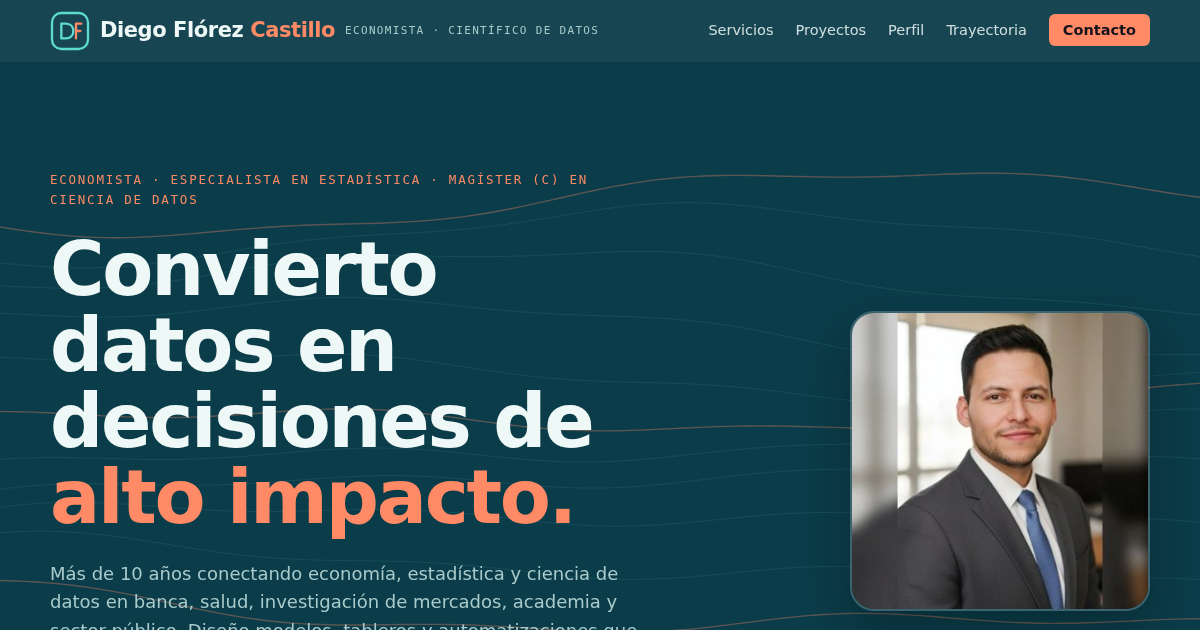
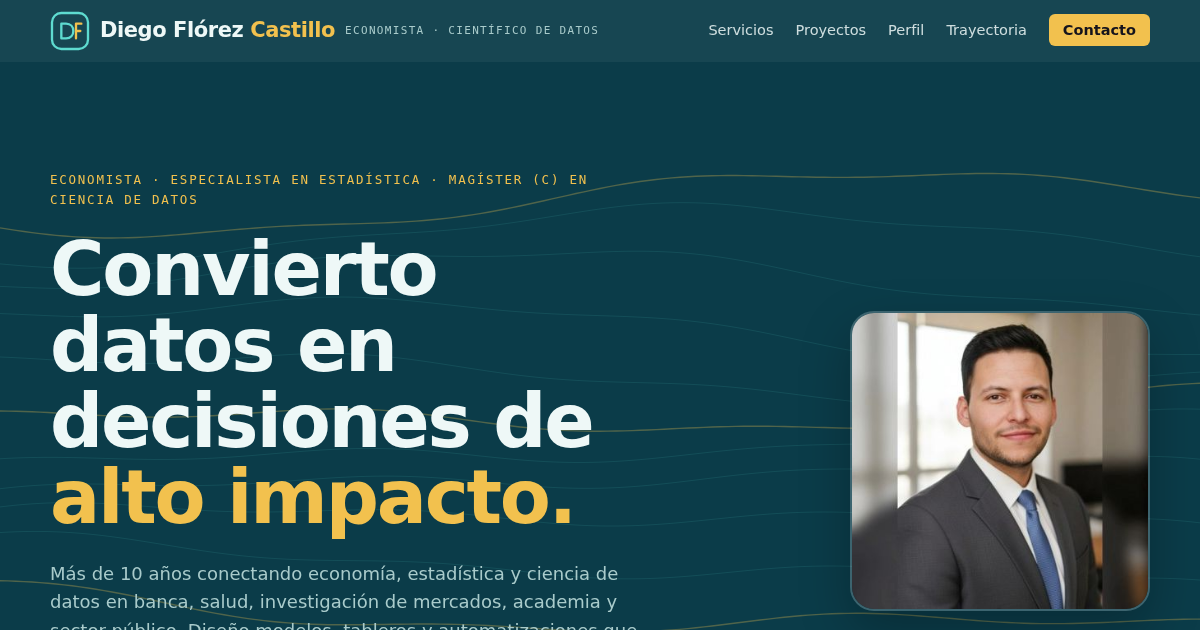
Add files via upload

diff --git a/index.html b/index.html
@@ -8,20 +8,21 @@
 <meta property="og:type" content="profile">
 <meta property="og:title" content="Diego Flórez Castillo · Economista y científico de datos">
 <meta property="og:description" content="Diego Flórez Castillo: economista, especialista en Estadística Aplicada y científico de datos. Analítica predictiva, econometría, inteligencia de negocios y automatización.">
-<meta property="og:image" content="og-diego.png">
+<meta property="og:image" content="https://diegoflorez-datos.github.io/og-diego.png">
+<meta property="og:url" content="https://diegoflorez-datos.github.io/">
 <meta name="twitter:card" content="summary_large_image">
 <meta name="theme-color" content="#0B3C49">
 <link rel="icon" type="image/svg+xml" href="favicon.svg">
 <link rel="preconnect" href="https://fonts.googleapis.com">
 <link rel="preconnect" href="https://fonts.gstatic.com" crossorigin>
 <link rel="stylesheet" href="https://fonts.googleapis.com/css2?family=Bricolage+Grotesque:opsz,wght@12..96,500;12..96,700;12..96,800&family=IBM+Plex+Sans:wght@400;500;600&family=IBM+Plex+Mono:wght@400;500&display=swap">
-<link rel="stylesheet" href="styles.css?v=20260929">
+<link rel="stylesheet" href="styles.css?v=20260929b">
 </head>
 <body>
 <nav class="nav" aria-label="Principal">
   <div class="wrap">
     <a class="brand" href="#inicio">
-      <svg width="40" height="40" viewBox="0 0 120 120" aria-hidden="true"><rect x="6" y="6" width="108" height="108" rx="28" fill="none" stroke="#5EDBD0" stroke-width="7"/><path d="M34 38 V82 H48 C62 82 70 72 70 60 C70 48 62 38 48 38 Z" fill="none" stroke="#5EDBD0" stroke-width="7" stroke-linejoin="round"/><path d="M78 82 V38 H94 M78 60 H91" fill="none" stroke="#FF8A65" stroke-width="7" stroke-linecap="round" stroke-linejoin="round"/></svg>
+      <svg width="40" height="40" viewBox="0 0 120 120" aria-hidden="true"><rect x="6" y="6" width="108" height="108" rx="28" fill="none" stroke="#5EDBD0" stroke-width="7"/><path d="M34 38 V82 H48 C62 82 70 72 70 60 C70 48 62 38 48 38 Z" fill="none" stroke="#5EDBD0" stroke-width="7" stroke-linejoin="round"/><path d="M78 82 V38 H94 M78 60 H91" fill="none" stroke="#F2C14E" stroke-width="7" stroke-linecap="round" stroke-linejoin="round"/></svg>
       <span class="wm">Diego Flórez<span class="wm-a"> Castillo</span></span> <small>Economista · Científico de datos</small>
     </a>
     <ul>
@@ -220,13 +221,13 @@
         <div class="case-top"><span class="case-num">06</span><span class="ibadge"><svg class="ico" viewBox="0 0 24 24" aria-hidden="true"><rect x="3" y="6" width="18" height="13" rx="2"/><path d="M3 10h18M7 15h3"/></svg></span></div>
         <span class="eyebrow">Sector financiero</span>
         <span class="client">Entidad bancaria · Operaciones y corresponsalía</span>
-        <div class="stack"><span class="chip">R</span><span class="chip">Conciliación</span><span class="chip">Reporte regulatorio</span></div>
+        <div class="stack"><span class="chip">R · Shiny</span><span class="chip">Conciliación</span><span class="chip">Reporte regulatorio</span></div>
       </div>
       <div class="case-body">
         <h3>Conciliación automatizada con aliados comerciales</h3>
         <dl class="dsi">
           <div><dt><svg class="ico sm" viewBox="0 0 24 24" aria-hidden="true"><circle cx="12" cy="12" r="8.5"/><circle cx="12" cy="12" r="4.5"/><circle cx="12" cy="12" r="1" fill="currentColor"/></svg>Desafío</dt><dd>El cuadre periódico entre las transacciones del banco y las reportadas por su aliado de corresponsalía se construía manualmente, con impacto en comisiones y reportes regulatorios.</dd></div>
-          <div><dt><svg class="ico sm" viewBox="0 0 24 24" aria-hidden="true"><circle cx="12" cy="12" r="3"/><path d="M12 2.5v3M12 18.5v3M2.5 12h3M18.5 12h3M5.3 5.3l2.1 2.1M16.6 16.6l2.1 2.1M5.3 18.7l2.1-2.1M16.6 7.4l2.1-2.1"/></svg>Solución</dt><dd>Flujo automatizado que consolida los registros de ambas partes, estandariza las operaciones, determina la base de comisiones, georreferencia cada punto de servicio y genera el reporte regulatorio con un solo clic.</dd></div>
+          <div><dt><svg class="ico sm" viewBox="0 0 24 24" aria-hidden="true"><circle cx="12" cy="12" r="3"/><path d="M12 2.5v3M12 18.5v3M2.5 12h3M18.5 12h3M5.3 5.3l2.1 2.1M16.6 16.6l2.1 2.1M5.3 18.7l2.1-2.1M16.6 7.4l2.1-2.1"/></svg>Solución</dt><dd>Flujo automatizado que consolida los registros de ambas partes, estandariza las operaciones, determina la base de comisiones, georreferencia cada punto de servicio con la codificación oficial de municipios y genera el reporte regulatorio. Todo se ejecuta desde una aplicación Shiny con un solo clic, que registra cada paso y el tiempo de ejecución.</dd></div>
           <div class="imp"><dt><svg class="ico sm" viewBox="0 0 24 24" aria-hidden="true"><path d="M4 4v16h16"/><path d="M8 15l3.5-4 3 2.5L20 7"/><path d="M16 7h4v4"/></svg>Impacto</dt><dd>Un proceso manual recurrente convertido en una ejecución controlada, con trazabilidad por terminal y municipio.</dd></div>
         </dl>
         <p class="transfer"><b>También aplicable en</b>Fintech, pasarelas de pago, recaudo, comercio con aliados y aseguradoras.</p>
@@ -369,6 +370,6 @@
     <span>© 2026 Diego Flórez Castillo · Economista y científico de datos · Bogotá, Colombia.</span>
   </div>
 </footer>
-<script src="main.js?v=20260929"></script>
+<script src="main.js?v=20260929b"></script>
 </body>
 </html>

diff --git a/styles.css b/styles.css
@@ -16,9 +16,9 @@ img{max-width:100%}
   --deep-muted:#A9CBCB;
   --accent:#0E7C74;
   --accent-soft:#DCF3EF;
-  --amber:#FF8A65;
-  --amber-ink:#C2461F;
-  --amber-soft:#FFE8DF;
+  --amber:#F2C14E;
+  --amber-ink:#8A6100;
+  --amber-soft:#FBF0D3;
   --plum:#0F6E7A;
   --display:"Bricolage Grotesque", "Segoe UI", system-ui, sans-serif;
   --body:"IBM Plex Sans", "Segoe UI", system-ui, sans-serif;
@@ -30,14 +30,14 @@ img{max-width:100%}
     color-scheme:dark;
     --ground:#0A1F24; --surface:#11303A; --ink:#EAF5F4; --ink-2:#B9D0D0; --muted:#86A3A6;
     --line:#1F4550; --deep:#062A33; --deep-2:#0B3540; --deep-ink:#EAF5F4; --deep-muted:#9CC2C2;
-    --accent:#5EDBD0; --accent-soft:#123F42; --amber:#FF9C7A; --amber-ink:#FFB59C; --amber-soft:#3A2620; --plum:#5EDBD0;
+    --accent:#5EDBD0; --accent-soft:#123F42; --amber:#F5CB62; --amber-ink:#F9DD99; --amber-soft:#3A3016; --plum:#5EDBD0;
   }
 }
 :root[data-theme="dark"]{
   color-scheme:dark;
   --ground:#0A1F24; --surface:#11303A; --ink:#EAF5F4; --ink-2:#B9D0D0; --muted:#86A3A6;
   --line:#1F4550; --deep:#062A33; --deep-2:#0B3540; --deep-ink:#EAF5F4; --deep-muted:#9CC2C2;
-  --accent:#5EDBD0; --accent-soft:#123F42; --amber:#FF9C7A; --amber-ink:#FFB59C; --amber-soft:#3A2620; --plum:#5EDBD0;
+  --accent:#5EDBD0; --accent-soft:#123F42; --amber:#F5CB62; --amber-ink:#F9DD99; --amber-soft:#3A3016; --plum:#5EDBD0;
 }
 *{box-sizing:border-box}
 html{scroll-behavior:smooth}
@@ -276,6 +276,7 @@ section{padding-block:clamp(56px,8vw,104px)}
 .contact .wrap{grid-template-columns:1fr 1fr}
 .contact .wrap>*{min-width:0}
 @media (max-width:860px){.contact .wrap{grid-template-columns:1fr}}
+.dsi .imp dt{color:var(--amber-ink)}
 
 footer{background:var(--deep);color:var(--deep-muted);font-size:13.5px;padding-block:32px}
 footer .wrap{display:grid;gap:10px}

diff --git a/main.js b/main.js
@@ -46,7 +46,7 @@ function sel(el){var r=document.createRange();r.selectNodeContents(el);var s=get
         var y=base+Math.sin(x/170+i*0.55+t)*14+Math.sin(x/61-i*0.3+t*1.7)*5+Math.cos(x/340+i)*22;
         x===0?ctx.moveTo(x,y):ctx.lineTo(x,y);
       }
-      ctx.strokeStyle= i%5===0 ? 'rgba(255,138,101,.55)' : 'rgba(94,219,208,.18)';
+      ctx.strokeStyle= i%5===0 ? 'rgba(242,193,78,.5)' : 'rgba(94,219,208,.18)';
       ctx.lineWidth= i%5===0 ? 1.4 : 1;
       ctx.stroke();
     }
